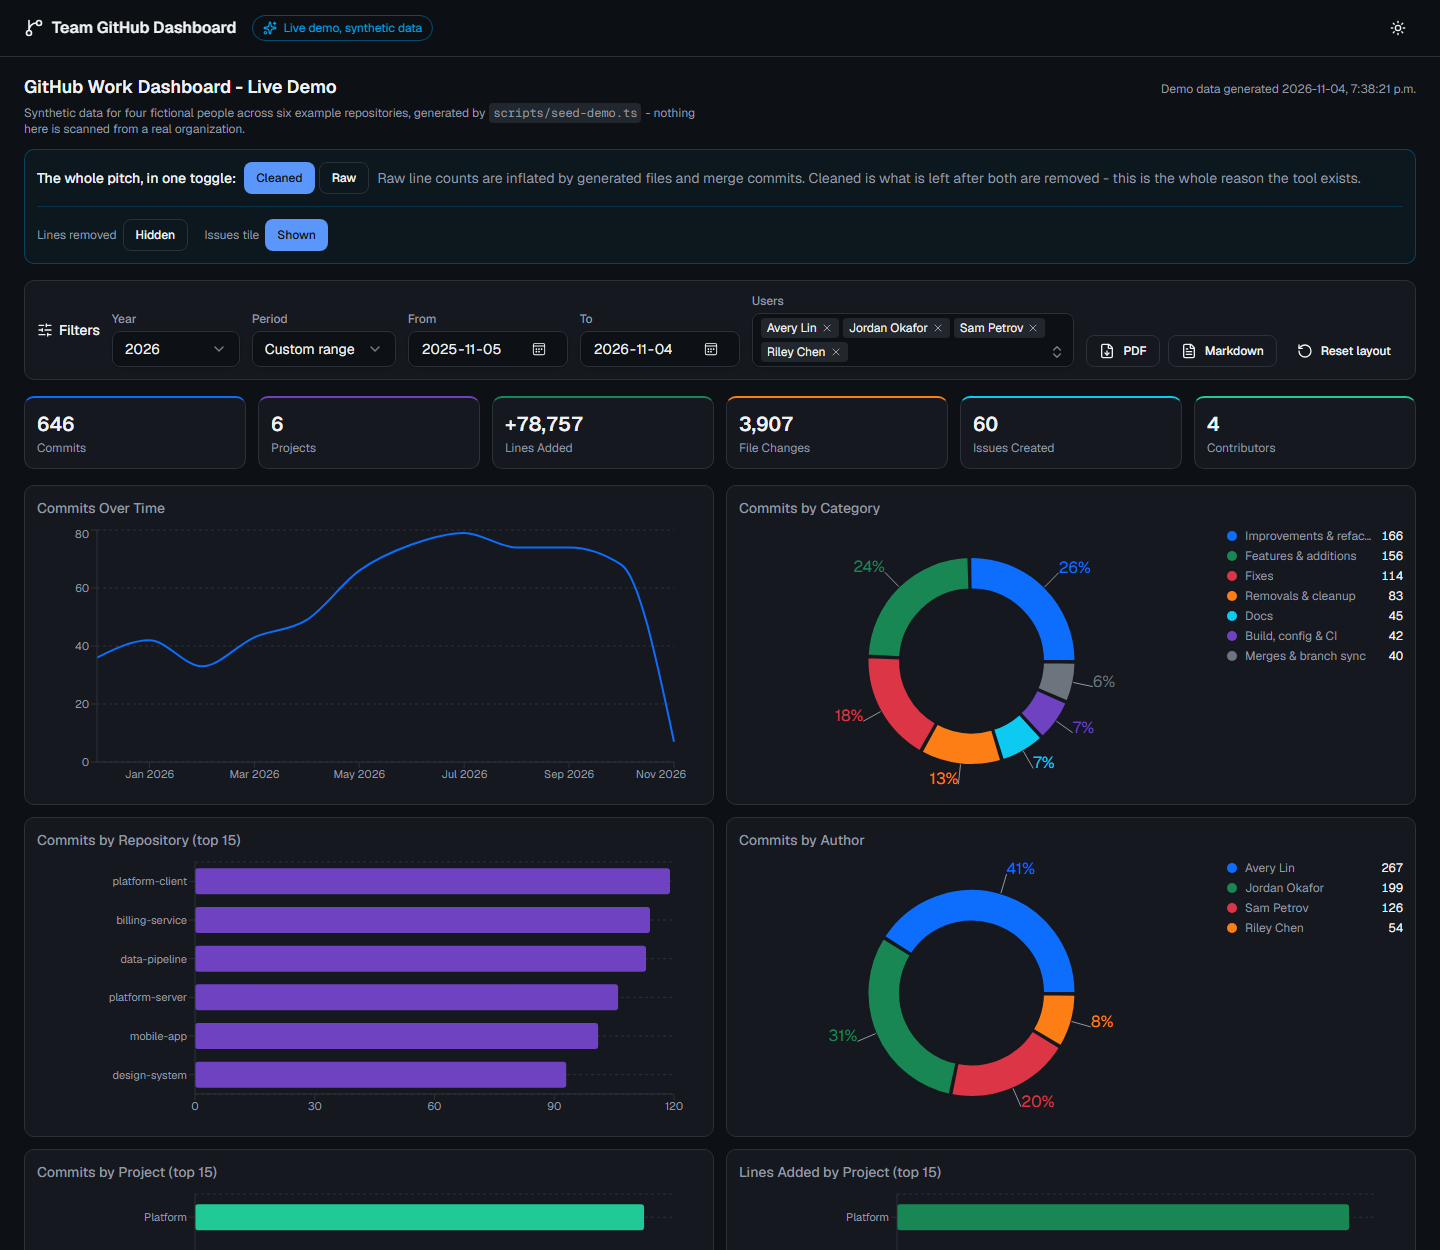
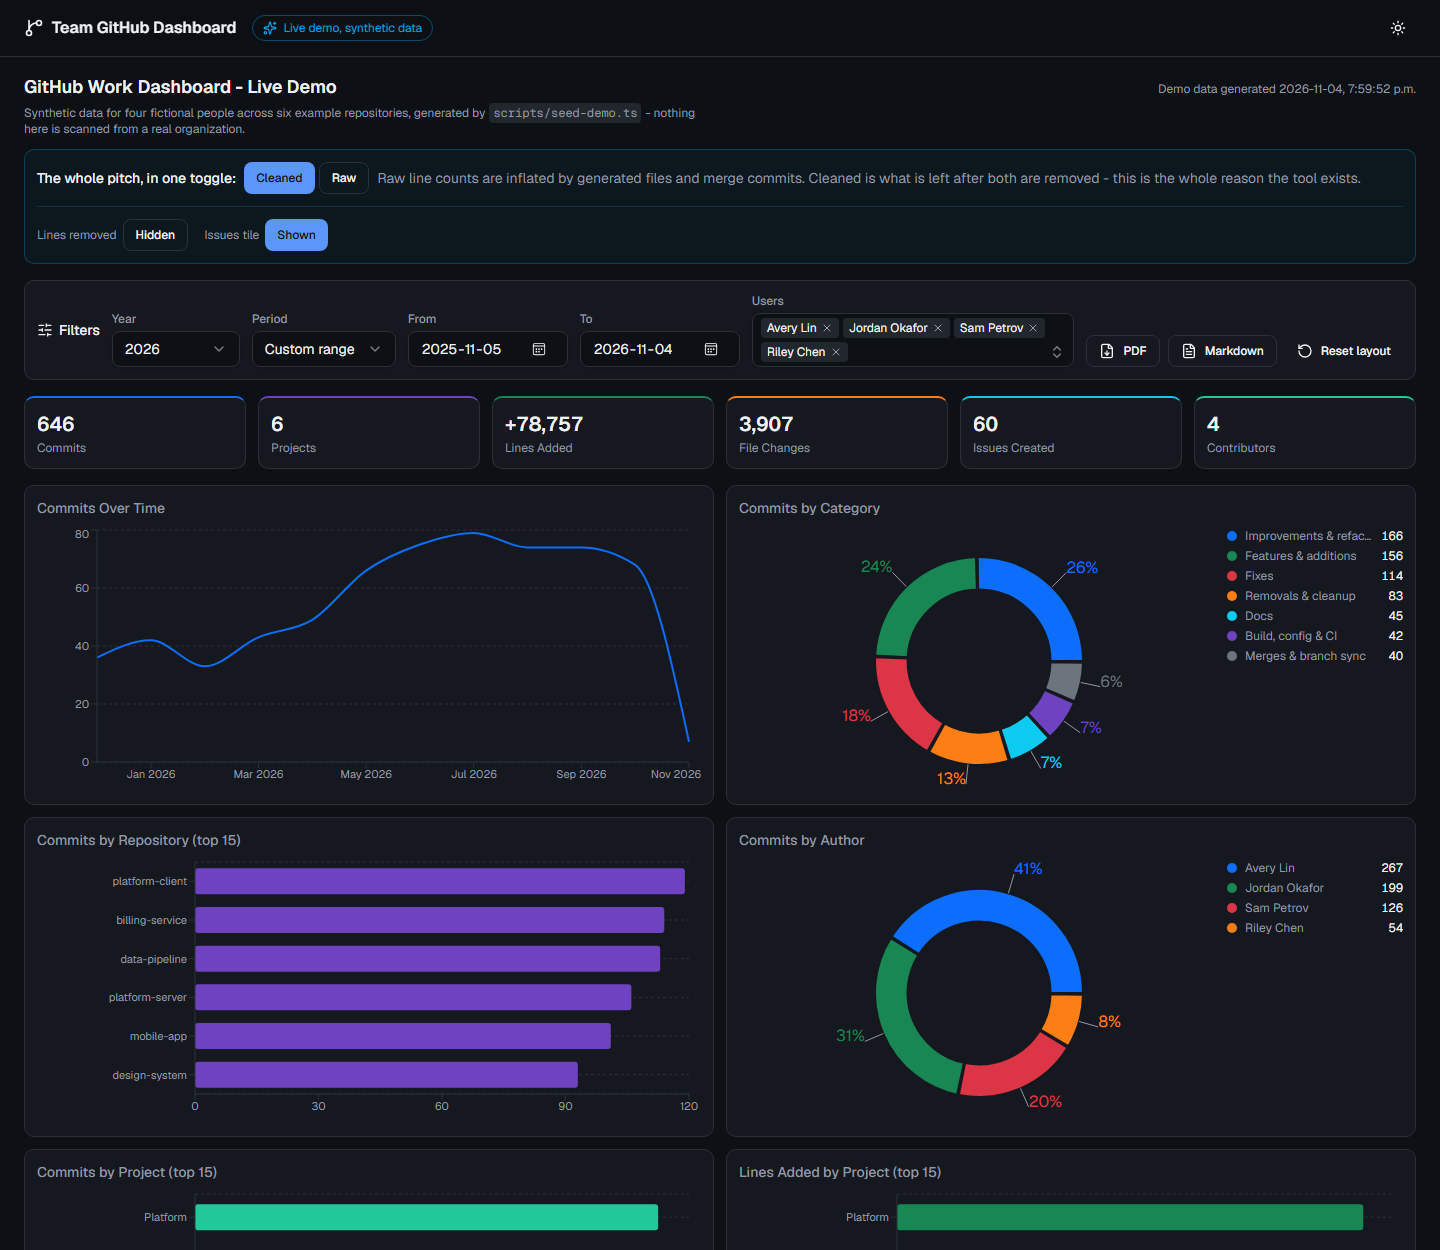
docs: screenshots of every demo state and the developer settings
Adds a Screens section to the README: cleaned versus raw counting, the
Lines removed setting, the period and users menus, the light theme, and
phone layouts, all from /demo. The developer settings panel, token
dialog, and schedule dialog come from /github pointed at a throwaway
database seeded with the same synthetic people, so no real data appears.
The three existing screenshots are recaptured from the same build.

diff --git a/README.md b/README.md
@@ -17,9 +17,75 @@ you can hand to leadership.
   </tr>
 </table>
 
-<sub>All screenshots are of <code>/demo</code>: four fictional people across six
-example repositories, generated by <code>scripts/seed-demo.ts</code>. No real
-organization's data is shown.</sub>
+<sub>Every screenshot in this README shows synthetic data: four fictional people
+across six example repositories, generated by <code>scripts/seed-demo.ts</code>.
+No real organization's data is shown. More screens are in
+<a href="#screens">Screens</a> below.</sub>
+
+## Screens
+
+### Cleaned versus raw
+
+The same twelve months of commits, counted two ways. Raw line counts include
+generated files, vendored code, and merge commits; cleaned removes them. The
+toggle is the whole argument for the tool.
+
+![Cleaned counting: +78,757 lines added](docs/screenshots/cleaned-kpis.png)
+
+![Raw counting: +1,017,659 lines added, the same commits](docs/screenshots/raw-kpis.png)
+
+### Display settings
+
+<table>
+  <tr>
+    <td colspan="2"><img src="docs/screenshots/lines-removed.png" alt="Lines removed shown as a seventh KPI card"></td>
+  </tr>
+  <tr>
+    <td colspan="2" align="center"><sub>Lines removed switched on. It is off by default because a large negative number reads as damage to non-technical readers</sub></td>
+  </tr>
+  <tr>
+    <td width="50%"><img src="docs/screenshots/period-menu.png" alt="Period menu: by month, by quarter, full year, or a custom range"></td>
+    <td width="50%"><img src="docs/screenshots/users-menu.png" alt="Users menu with search, listing people by real name"></td>
+  </tr>
+  <tr>
+    <td align="center"><sub>Period: month, quarter, year, or any custom range</sub></td>
+    <td align="center"><sub>Users, listed by name rather than GitHub handle</sub></td>
+  </tr>
+</table>
+
+### Developer settings
+
+Captured from the real `/github` dashboard pointed at a throwaway database
+seeded with the same synthetic people, with sign-in switched off
+(`AUTH_ENABLED=false`, hence the badge in the header).
+
+![Settings panel: user settings for the roster, developer settings for counting, token, and schedule](docs/screenshots/dev-settings.png)
+
+<table>
+  <tr>
+    <td width="46%" valign="top"><img src="docs/screenshots/dev-token-dialog.png" alt="GitHub token dialog: paste a token or use the gh CLI token"></td>
+    <td width="54%" valign="top"><img src="docs/screenshots/dev-schedule-dialog.png" alt="Scheduled scans dialog, with the equivalent cron and Task Scheduler commands"></td>
+  </tr>
+  <tr>
+    <td align="center"><sub>GitHub token: paste one, or reuse the <code>gh</code> CLI's</sub></td>
+    <td align="center"><sub>Scheduled scans, with the cron and Task Scheduler equivalents</sub></td>
+  </tr>
+</table>
+
+### Light theme and mobile
+
+![The demo dashboard in the light theme](docs/screenshots/dashboard-light.png)
+
+<table>
+  <tr>
+    <td width="50%" align="center"><img src="docs/screenshots/home-mobile.png" alt="Homepage on a phone" width="300"></td>
+    <td width="50%" align="center"><img src="docs/screenshots/demo-mobile.png" alt="Demo dashboard on a phone" width="300"></td>
+  </tr>
+  <tr>
+    <td align="center"><sub>Homepage on a phone</sub></td>
+    <td align="center"><sub>Demo dashboard on a phone</sub></td>
+  </tr>
+</table>
 
 ## See it without a token
 
